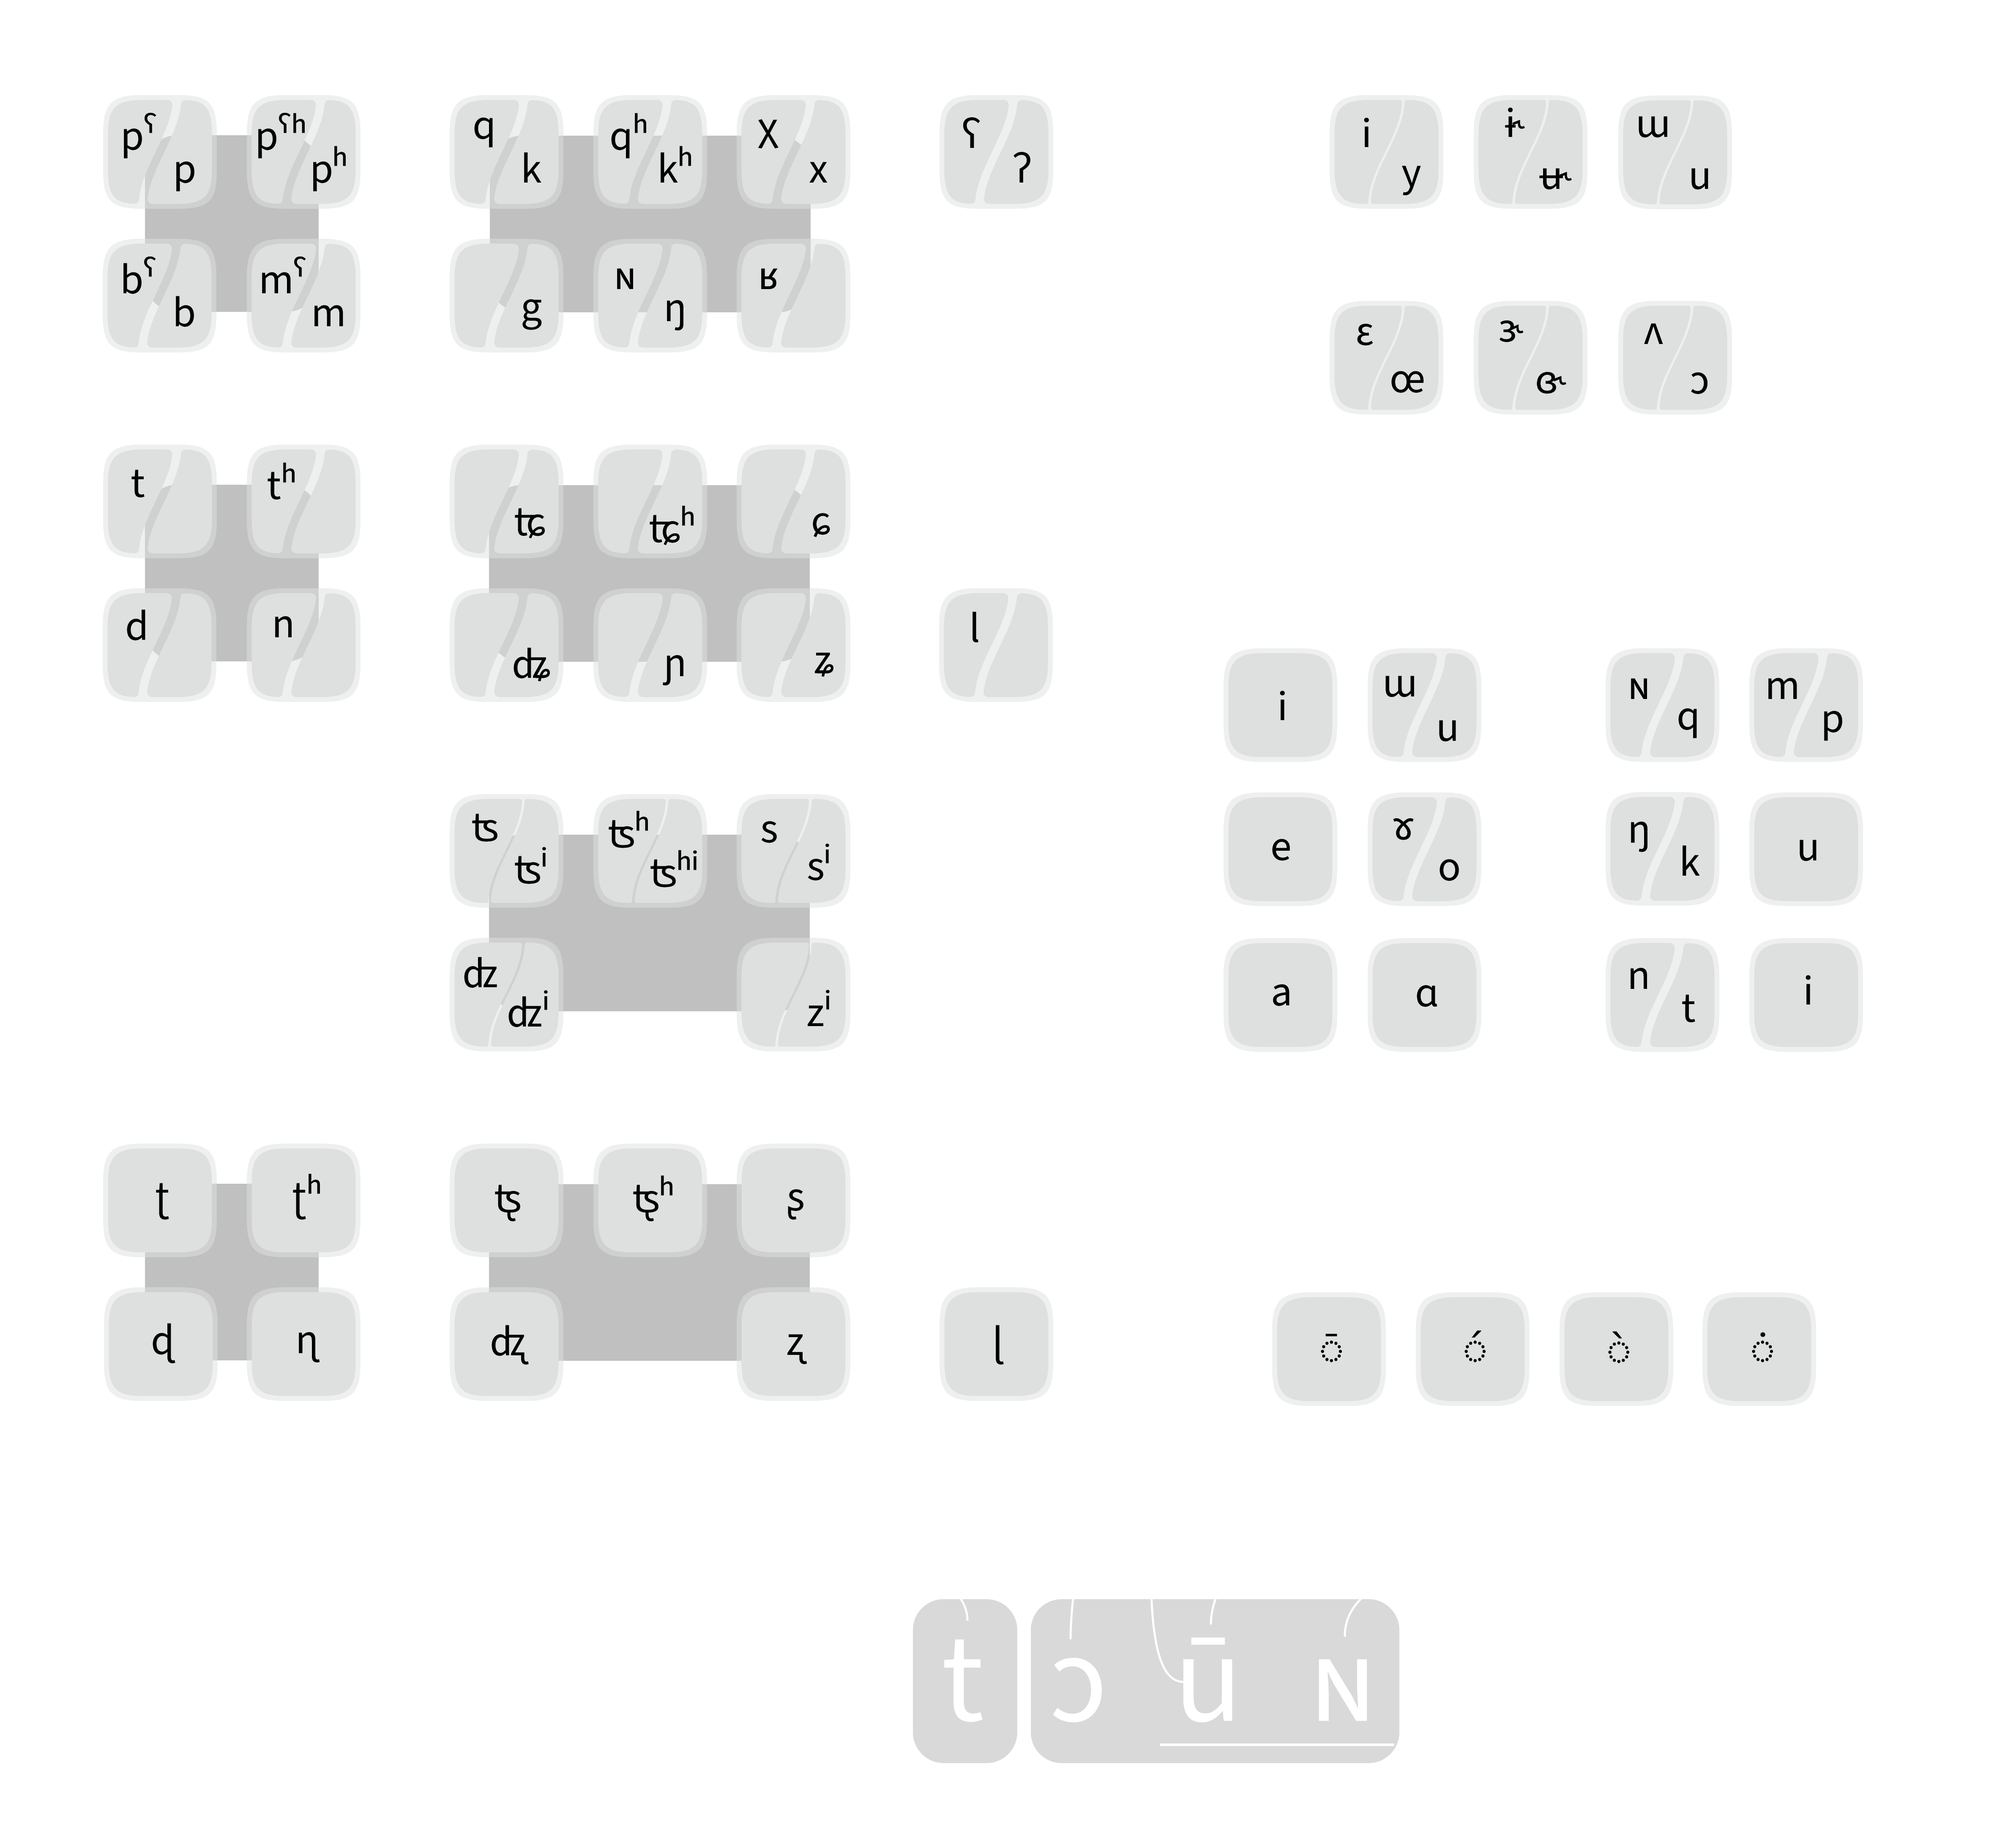
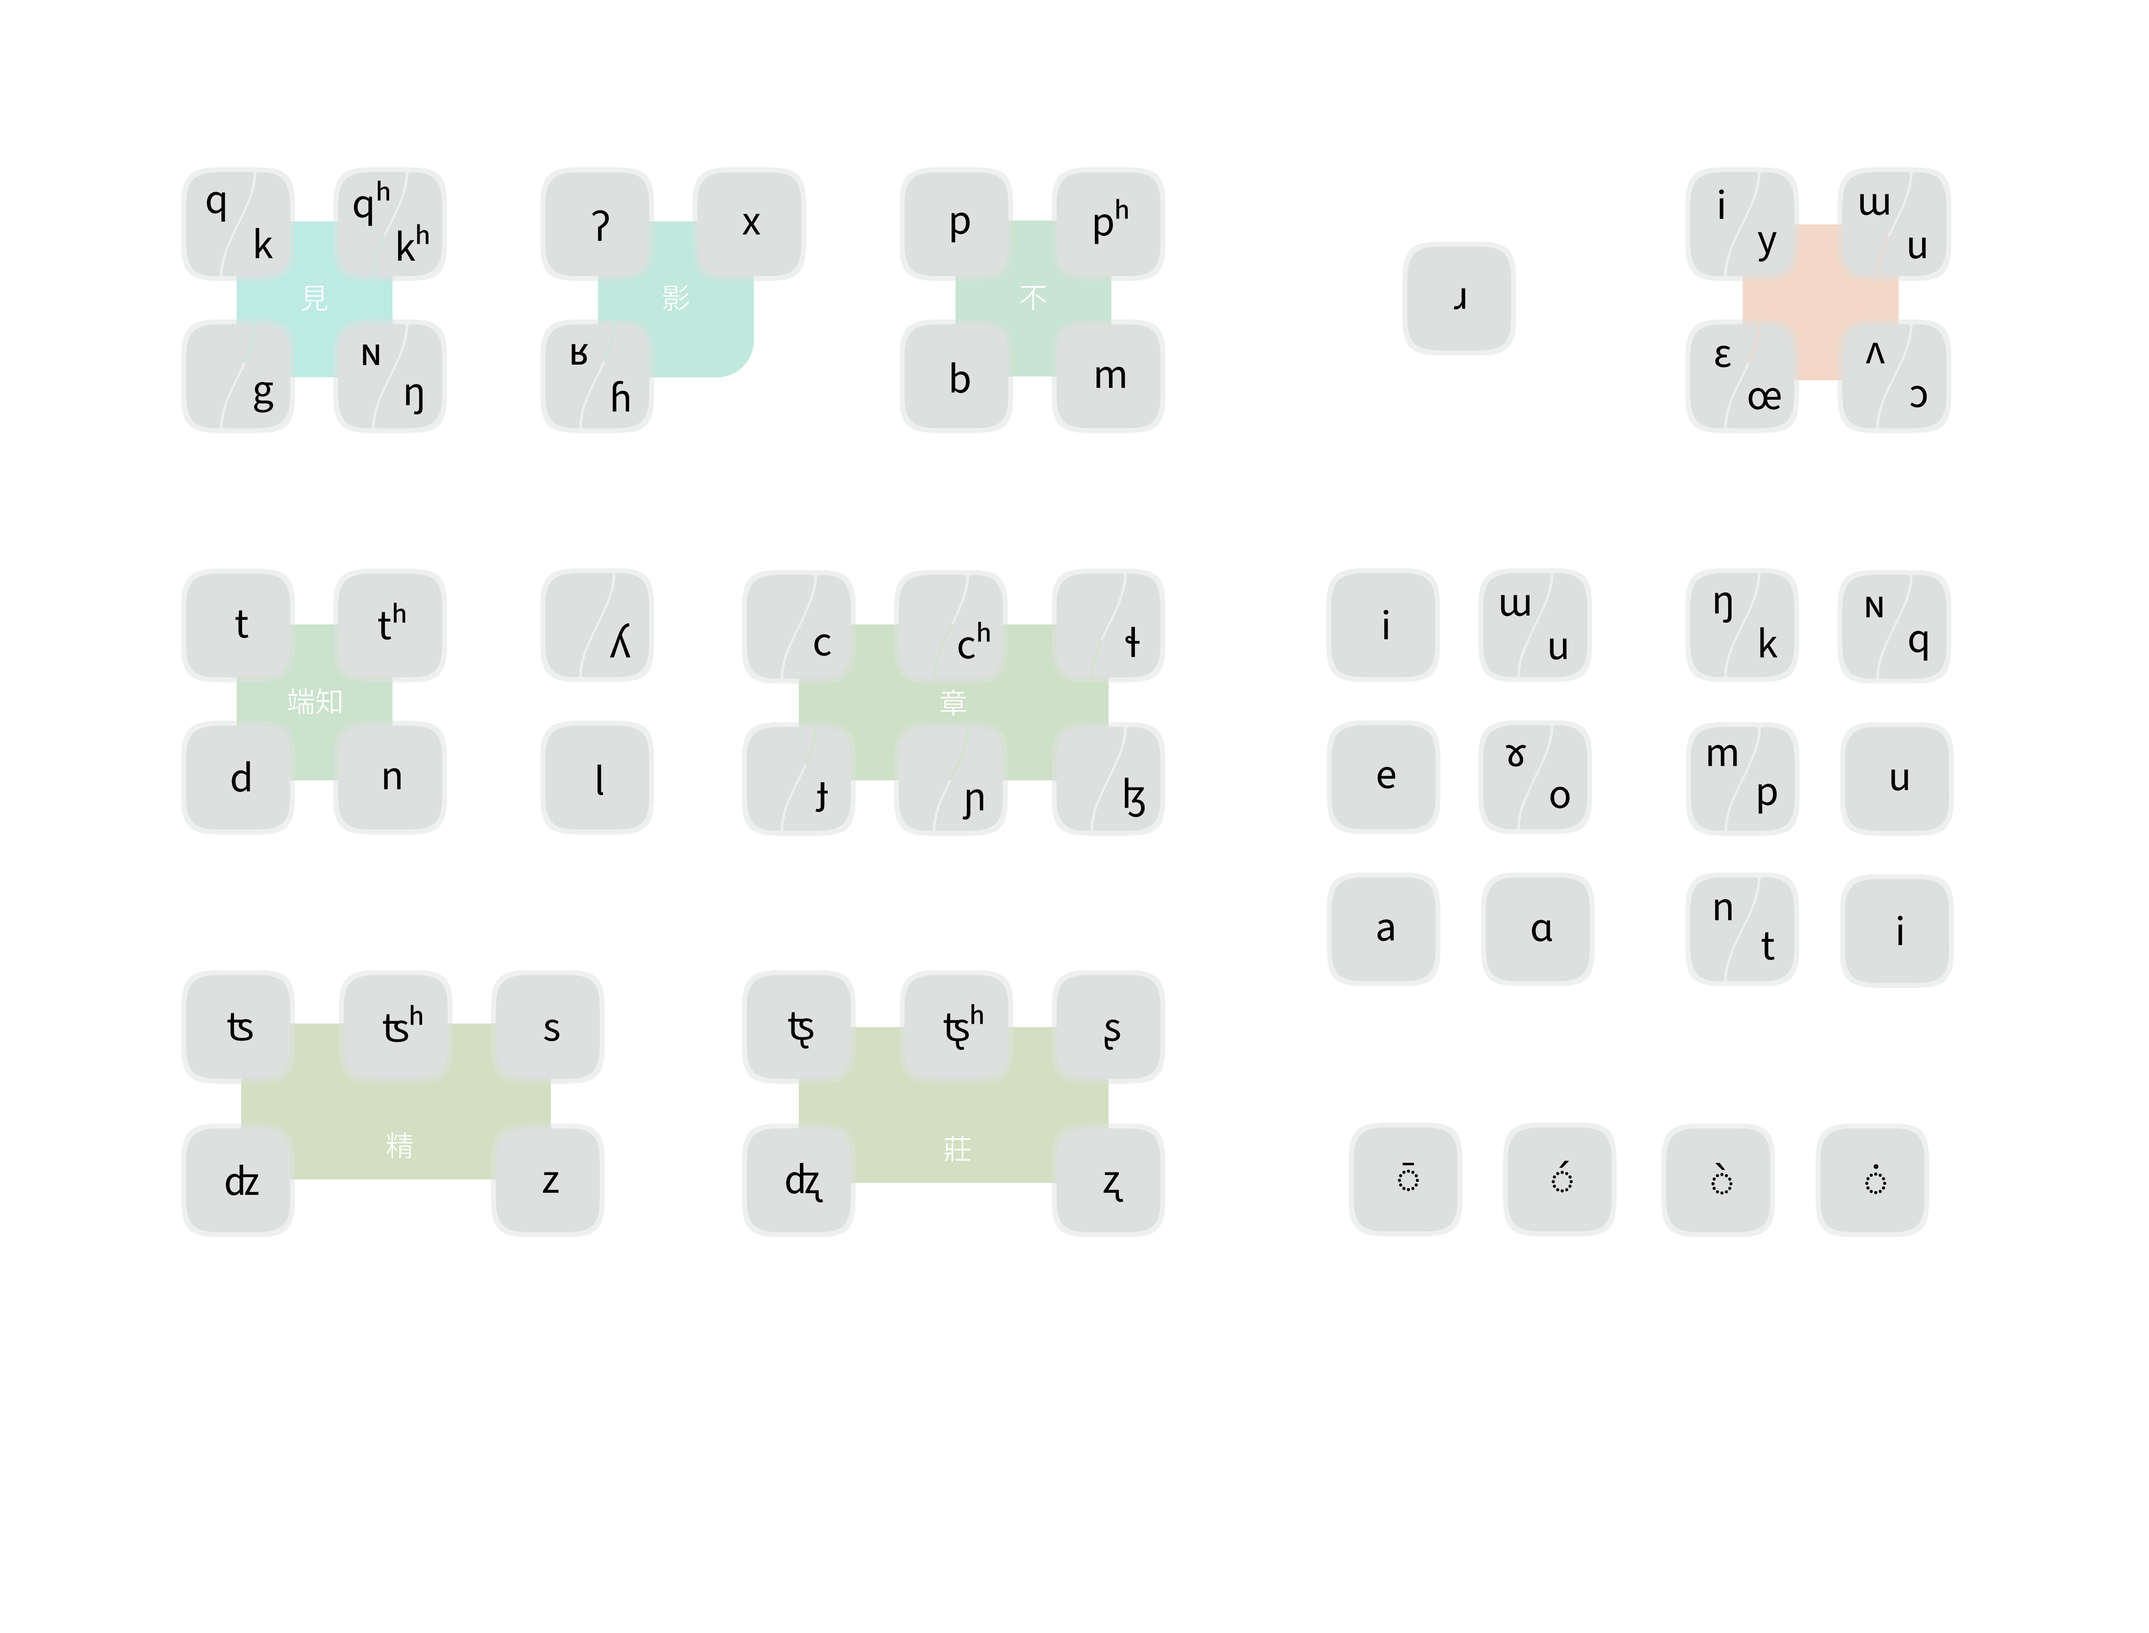
Update to latest version
https://zhuanlan.zhihu.com/p/600455882

diff --git a/README.md b/README.md
@@ -4,18 +4,18 @@
 <hr>
 <ol><li> Input with Cangjie or Pinyin and get phonetic readings as comments trailing each candidate.</li>
 <li> Results are shown using International Phonetic Alphabet.</li>
-<li>Upper-left of initial cells host non 3rd Grade, lower-right host 3rd Grade.</li>
+<li>Upper-left of initial cells host non-3rd Grade, lower-right host 3rd Grade.</li>
 <li>Upper-left of vowel cells host open vowels, lower-right host closed vowels.</li>
-<li>Null initial, final are not listed and will not be shown.</li>
-<li>6 cells in the interim vowel row here are arranged as: top-left: 3A, top-mid: 3B, top-right: 3C, bot-left: 4, bot-mid: 2, bot-right: 1</li></ol>
+<li>Null glide and final are not listed and will not be shown.</li>
+<li>3rd grade is called negative, and non-3rd grade are also called positive here.</li></ol>
 <ol>
 
 <li>以倉頡或普通話拼音輸入漢字，切韻擬音注於候選項後</li>
 <li>擬音以國際音標標記</li>
 <li>聲母表中左上角接非三等韻，右下角接三等韻</li>
 <li>韻母表中左上角爲開口韻，右下角爲合口韻</li>
-<li>以、云母爲零聲母，直接以元音開頭；零韻尾未列於表內</li>
-<li>介音6格中左上者3A、中上者3B、右上者3C，左下者4等、中下者2等、右下者1等</li></ol>
+<li>零韻尾、零介音未列於表內</li>
+<li>陰性介音即三等韻，陽性介音即非三等韻</li></ol>
 <h3>Here lists all elements in the phonetics／現列出各標音元素：</h3>
 <p style="text-align:center;">
 <picture style = "width: 50%; margin-left: auto; margin-right: auto;">
